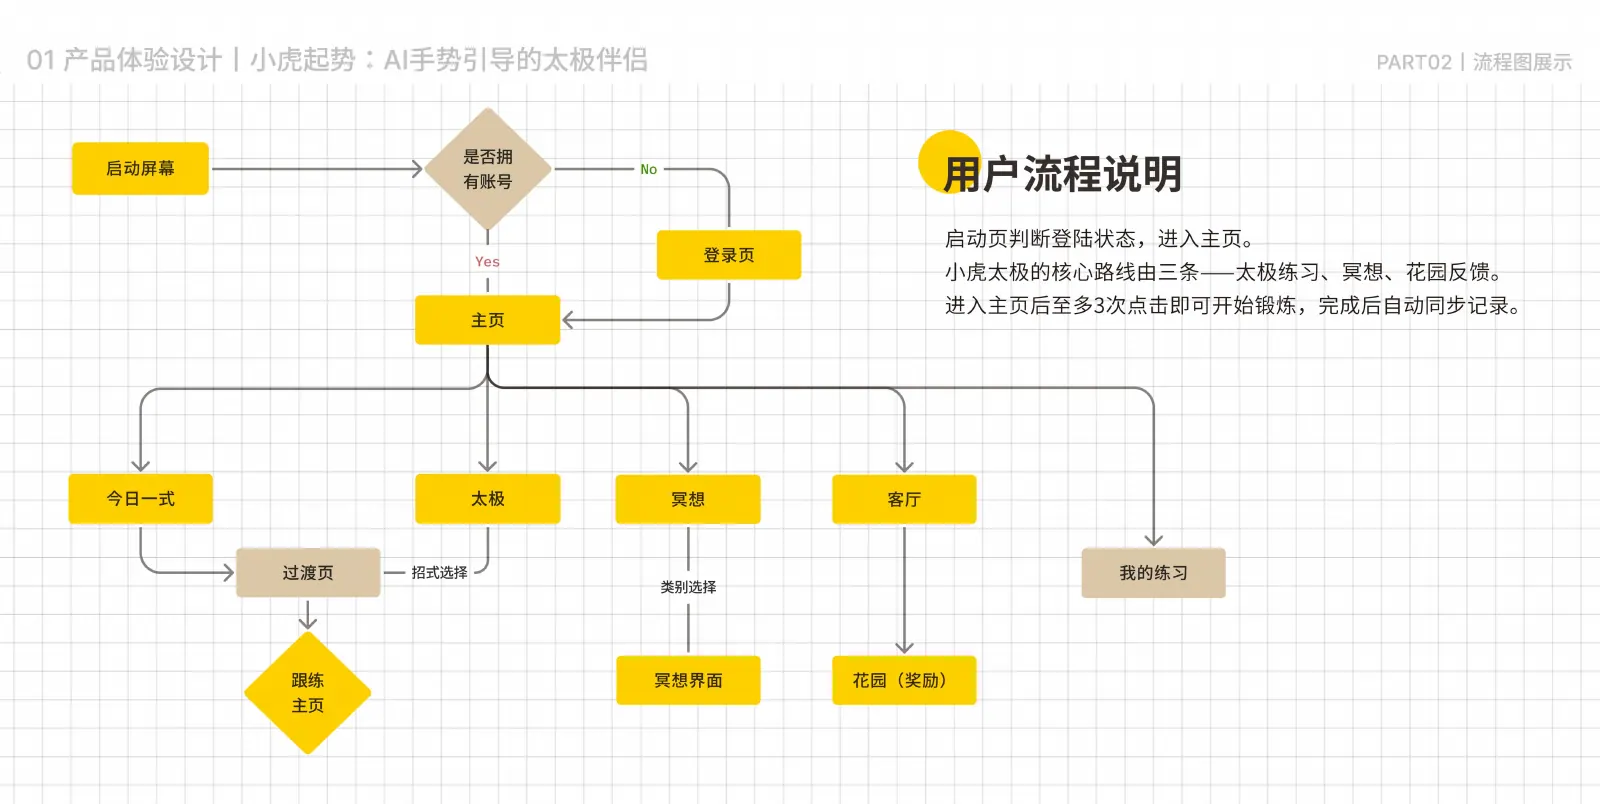
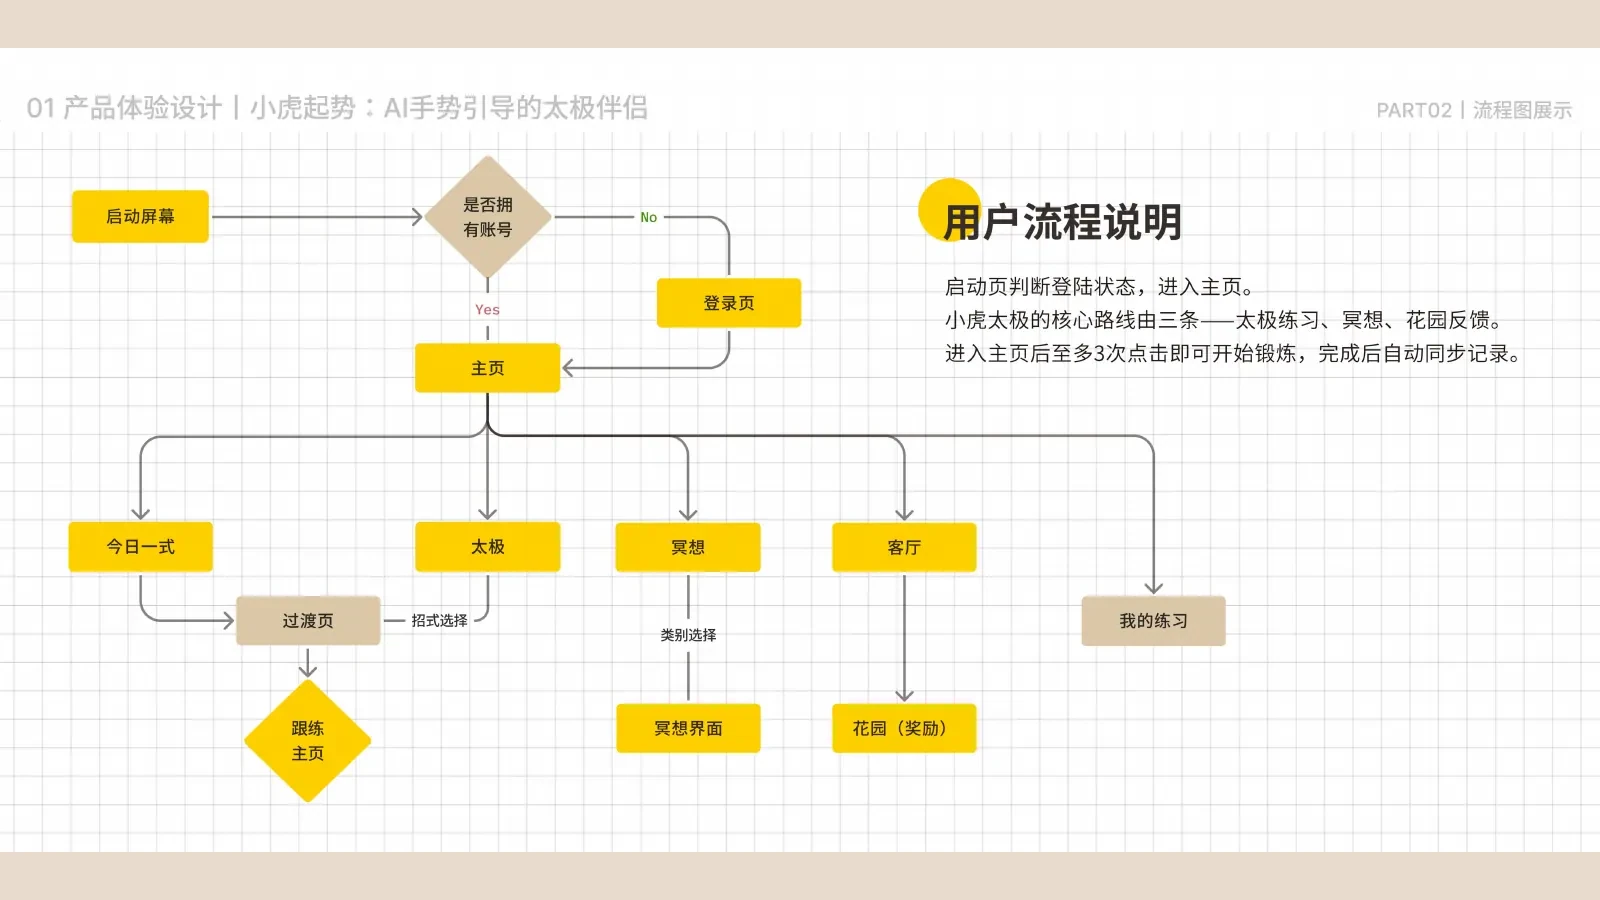
Validate public image integrity (#4)

diff --git a/项目.md b/项目.md
@@ -61,7 +61,7 @@ src/
   *.njk                  页面模板
 scripts/
   build-assets.mjs       从本地母版生成网页衍生资源
-  validate-content.mjs   内容、资源、链接和视频预算校验
+  validate-content.mjs   内容、资源、图片尺寸与元数据、链接和视频预算校验
 tests/
   site.test.mjs          页面、内容、链接与隐私合同测试
   browser-smoke.mjs      桌面端和移动端浏览器冒烟测试
